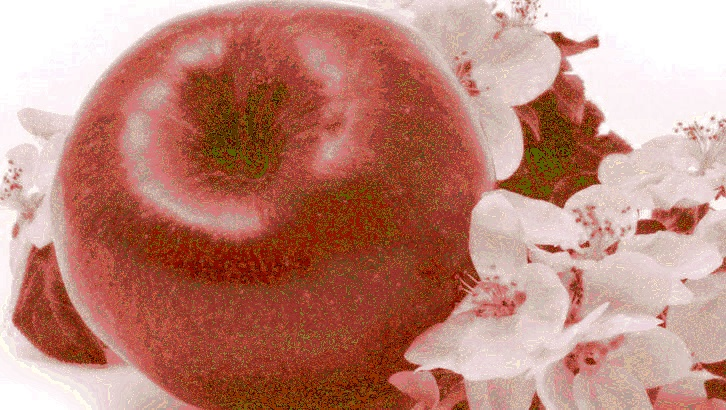
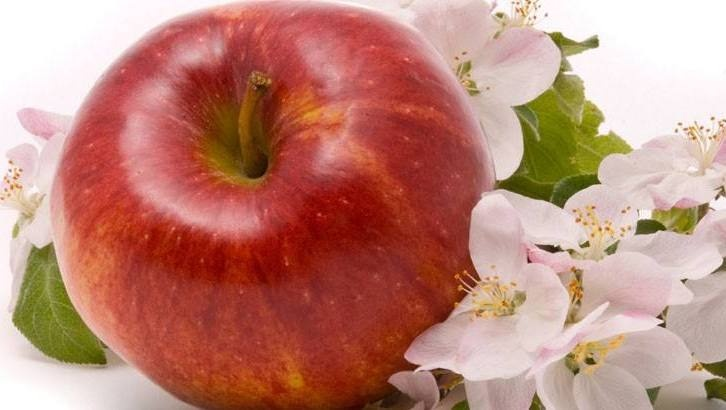
debuging

diff --git a/Homework1/RedApple/RedApple.py b/Homework1/RedApple/RedApple.py
@@ -1,47 +1,55 @@
-from PIL import Image
 import operator
-import numpy as np
-import matplotlib.pyplot as plt
+import math
 import cv2
 import sys
 
 def ImgProcess(img):
     rows, cols, dims = img.shape
-    R, G, B = 0, 1, 2
+    R, G, B = 2, 1, 0
     pixels = []
 
     # pick up all the pixels
     for x in range(rows):
         for y in range(cols):
-            pixels.append([img[x,y,R],img[x,y,G],img[x,y,B],x,y])
+            pixels.append([img[x,y,B],img[x,y,G],img[x,y,R],x,y])
 
+    '''
     # determine the 256 present color
-    medianNum = len(pixels)
+    medianPos = len(pixels)
     pixels.sort(key=operator.itemgetter(R))
     for t in range(8):
-        medianNum = medianNum//2
-        ltimes = len(pixels) // medianNum
+        medianPos = medianPos//2
+        ltimes = len(pixels) // medianPos
         if (t%3 == 0):
             for i in range(ltimes):
-                pixels[i*medianNum:(i+1)*medianNum].sort(key=operator.itemgetter(R))
+                pixels[i*medianPos:(i+1)*medianPos].sort(key=operator.itemgetter(R))
         elif (t%3 == 1):
             for i in range(ltimes):
-                pixels[i*medianNum:(i+1)*medianNum].sort(key=operator.itemgetter(G))
+                pixels[i*medianPos:(i+1)*medianPos].sort(key=operator.itemgetter(G))
         elif (t%3 == 2):
             for i in range(ltimes):
-                pixels[i*medianNum:(i+1)*medianNum].sort(key=operator.itemgetter(B))
+                pixels[i*medianPos:(i+1)*medianPos].sort(key=operator.itemgetter(B))
 
     region = len(pixels)//256
     for t in range(256):
-        medianColor = pixels[(2*t+1)*region//2]
+        presentColor = [[],[],[]]
+        Rsum = 0
+        Gsum = 0
+        Bsum = 0
+        for i in range(t*region,(t+1)*region):
+            Rsum += pixels[i][R]
+            Gsum += pixels[i][G]
+            Bsum += pixels[i][B]
+        presentColor[R] = Rsum // region
+        presentColor[G] = Gsum // region
+        presentColor[B] = Bsum // region
         for i in range(t*region,(t+1)*region):
             x = pixels[i][3]
             y = pixels[i][4]
-            img[x,y,R] = medianColor[R]
-            img[x,y,G] = medianColor[G]
-            img[x,y,B] = medianColor[B]
-
-    
+            img[x,y,R] = presentColor[R]
+            img[x,y,G] = presentColor[G]
+            img[x,y,B] = presentColor[B]
+    '''
     # save the new img
     cv2.imwrite("../res/hw2.jpg",img)
 
@@ -51,32 +59,5 @@ def ImgProcess(img):
     cv2.waitKey(0)
     ###press 'ESC' to exit
 
-
-    '''
-    height, width, channels = img.shape
-    # 去除坐标系
-    plt.axis('off')
-    # 去除图像周围的白边  
-    fig, ax = plt.subplots()
-    plt.figure(figsize=(6,4))
-    fig.set_size_inches(width/100.0/3.0, height/100.0/3.0)  
-    plt.gca().xaxis.set_major_locator(plt.NullLocator()) 
-    plt.gca().yaxis.set_major_locator(plt.NullLocator()) 
-    plt.subplots_adjust(top=1,bottom=0,left=0,right=1,hspace=0,wspace=0) 
-    plt.margins(0,0)
-    plt.imshow(Image.fromarray(img))
-    # save
-    plt.savefig('../res/hw2.jpg', dpi=300)
-    plt.show()
-    '''
-
 # main()
-f1 = open("../res/np.txt",'a')
-f1.write(str(np.array(Image.open('../img/redapple.jpg'))))
-f1.close()
-
-f2 = open("../res/cv.txt",'a')
-f2.write(str(cv2.imread('../img/redapple.jpg')))
-f2.close()
-
 ImgProcess(cv2.imread('../img/redapple.jpg'))

diff --git a/Homework1/IrisWipe/IrisWipe.py b/Homework1/IrisWipe/IrisWipe.py
@@ -5,6 +5,7 @@ import matplotlib.pyplot as plt
 import cv2
 
 def IrisWipe(img1, img2):
+
     '''
     #only show in red channel
     r1, g1, b1 = img1.split()
@@ -16,8 +17,11 @@ def IrisWipe(img1, img2):
     im1 = np.array(img1)
     im2 = np.array(img2)
 
-    #rows, cols = im1.shape  #for red channel only
-    rows, cols, dims = im1.shape #for three channels
+    #for red channel only
+    #rows, cols = im1.shape
+
+    #for three channels
+    rows, cols, dims = im1.shape
 
     # initial the counting time
     t = 0
